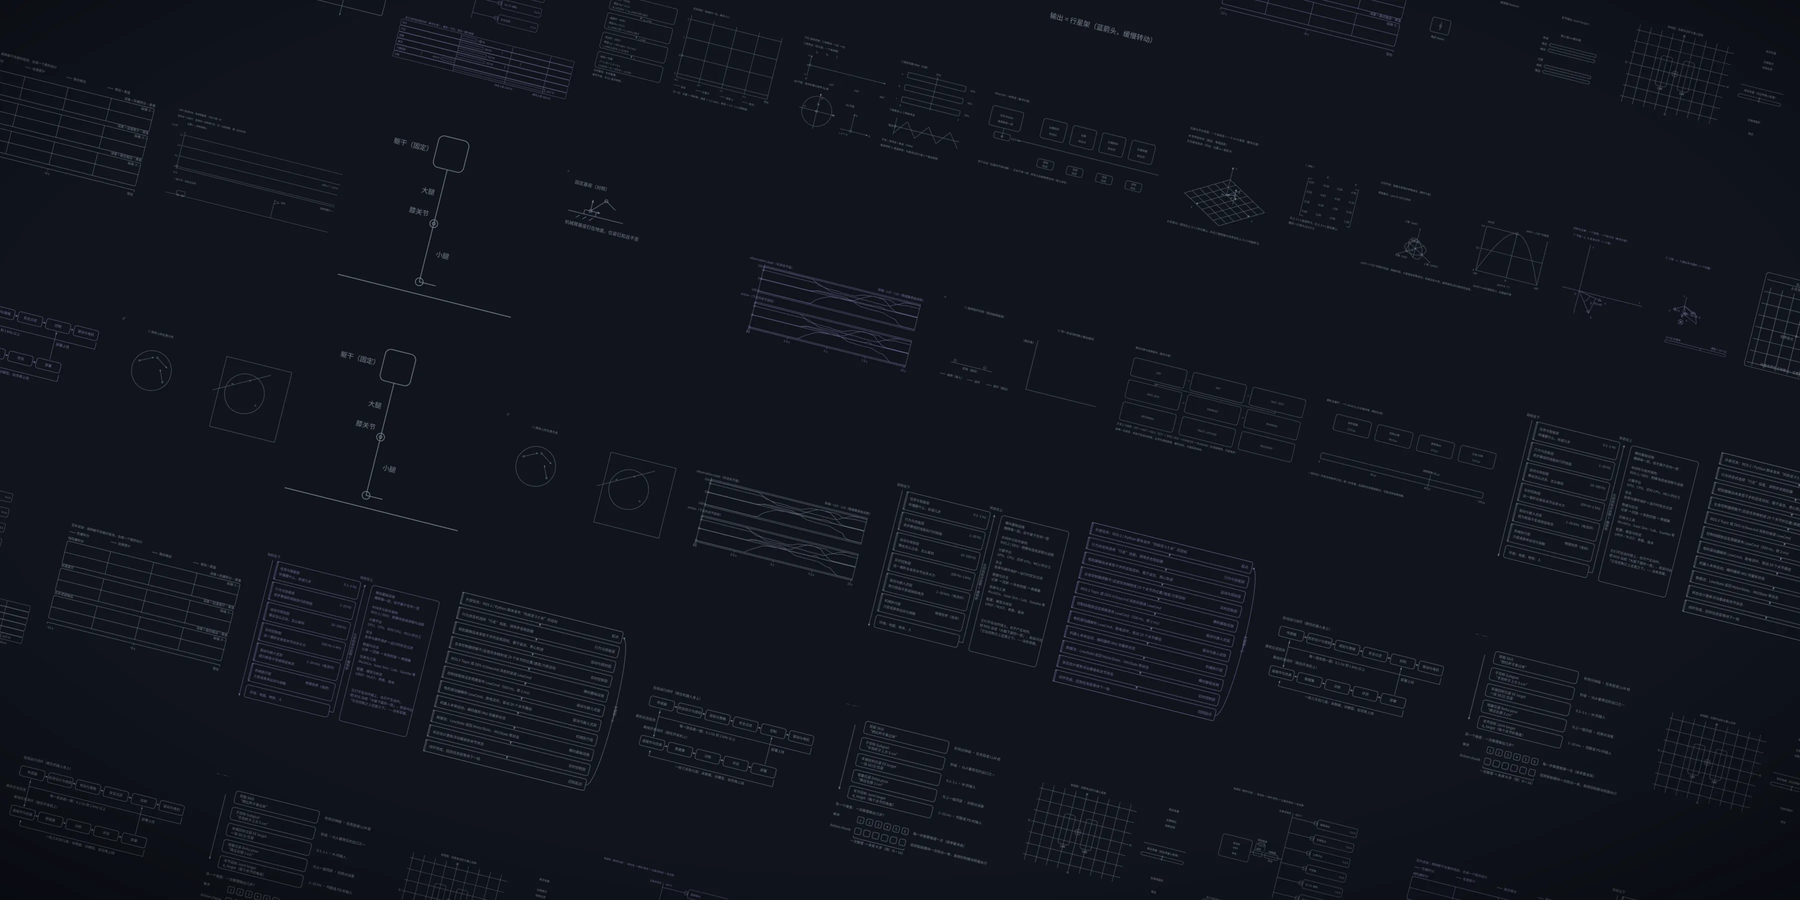
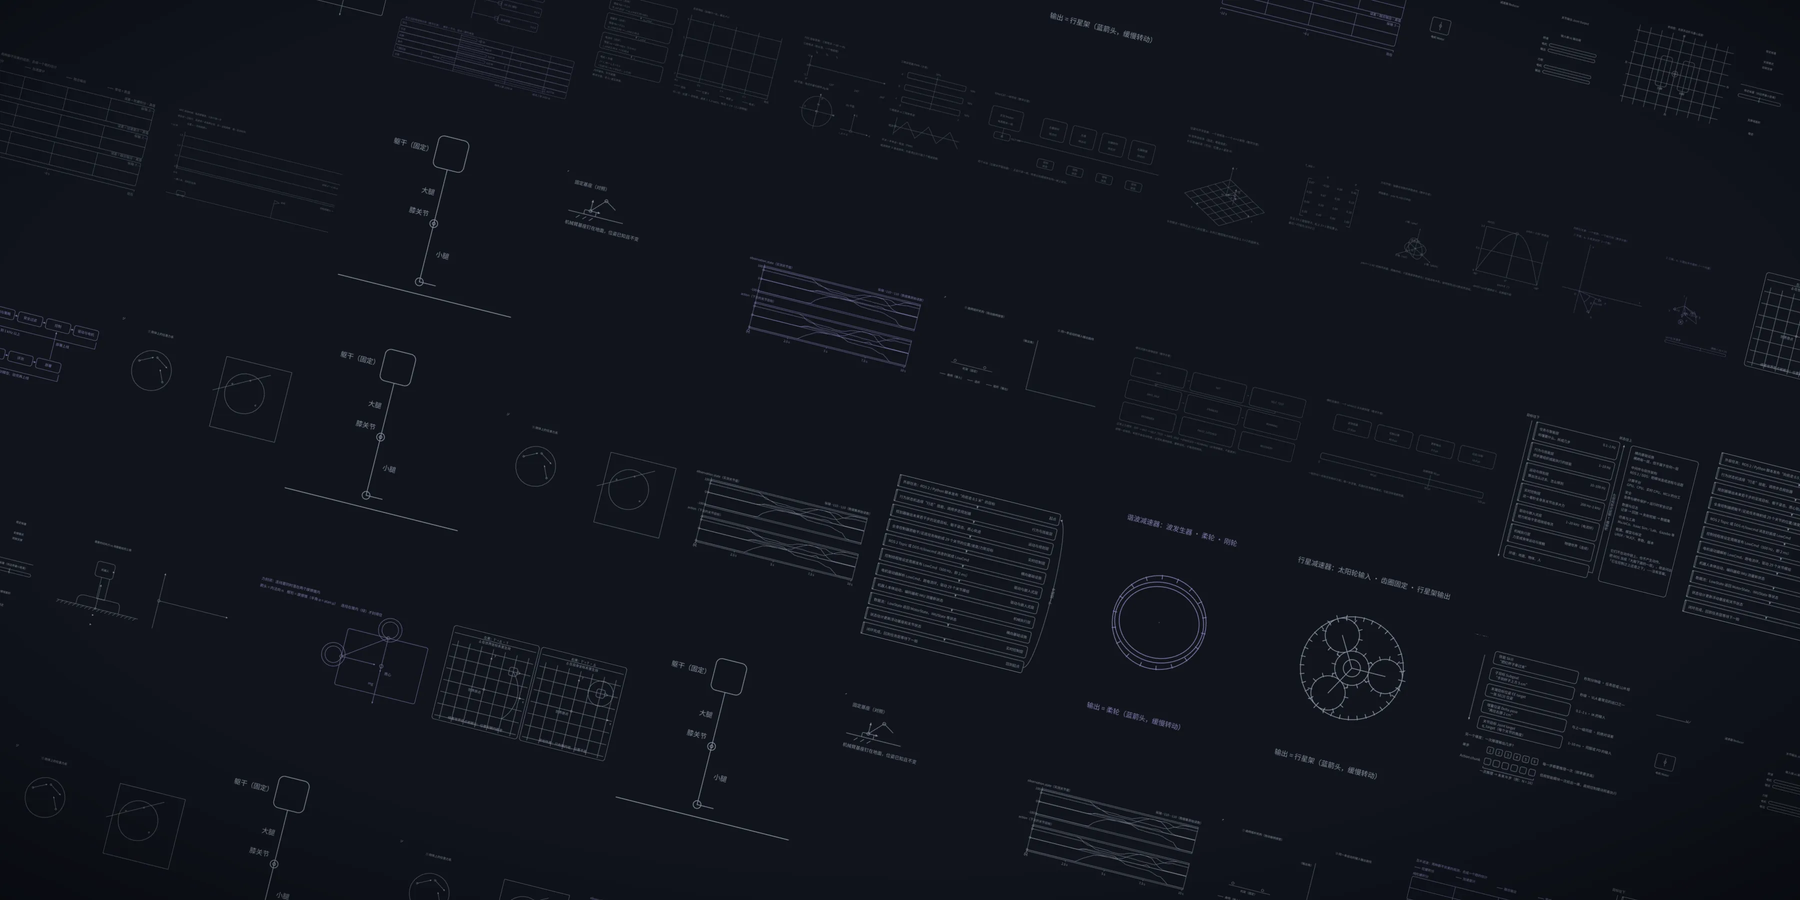
docs(site): 首页 hero 接入斜向拼贴背景（构建期生成）
首页 hero 加载 hero-collage.webp：径向遮罩淡出边缘 + 中心压暗层，深色主题下与标题文字对比度 15:1；亮色主题把背景压到 0.14 不透明度并换成白色遮罩；窄屏改为放大局部（background-size 210%%、opacity 0.42）。构建链改为 sync → astro build → hero-collage（--no-photo），生成器同时写入 public/ 与 dist/（astro build 会清空 dist，故必须排在其后）。生成器另按图形/文字比例分层：图形类 0.68、结构图清单类 0.42，且只复用图形类填满 60 格。

diff --git a/site/src/styles/custom.css b/site/src/styles/custom.css
@@ -114,3 +114,34 @@
   height: auto;
   margin: 0.75rem auto;
 }
+
+/* ===== 首页 hero：斜向拼贴背景（构建期由 scripts/hero-collage.mjs 生成） ===== */
+.hero { position: relative; isolation: isolate; }
+.hero::before {
+  content: '';
+  position: absolute;
+  inset: 0;
+  z-index: -2;
+  pointer-events: none;
+  background-image: url('/A_Brief_Tutorial_of_Humanoid_Robot/hero-collage.webp');
+  background-size: cover;
+  background-position: center;
+  opacity: 0.6;
+  -webkit-mask-image: radial-gradient(130% 105% at 50% 45%, #000 42%, rgba(0, 0, 0, 0.5) 74%, transparent 100%);
+  mask-image: radial-gradient(130% 105% at 50% 45%, #000 42%, rgba(0, 0, 0, 0.5) 74%, transparent 100%);
+}
+.hero::after {
+  content: '';
+  position: absolute;
+  inset: 0;
+  z-index: -1;
+  pointer-events: none;
+  background: radial-gradient(95% 78% at 50% 45%, rgba(10, 14, 23, 0.52) 0%, rgba(10, 14, 23, 0.84) 68%, var(--sl-color-bg) 100%);
+}
+:root[data-theme='light'] .hero::before { opacity: 0.14; }
+:root[data-theme='light'] .hero::after {
+  background: radial-gradient(95% 78% at 50% 45%, rgba(255, 255, 255, 0.7) 0%, rgba(255, 255, 255, 0.9) 68%, var(--sl-color-bg) 100%);
+}
+@media (max-width: 50rem) {
+  .hero::before { background-size: 210% auto; background-position: 32% 50%; opacity: 0.42; }
+}
